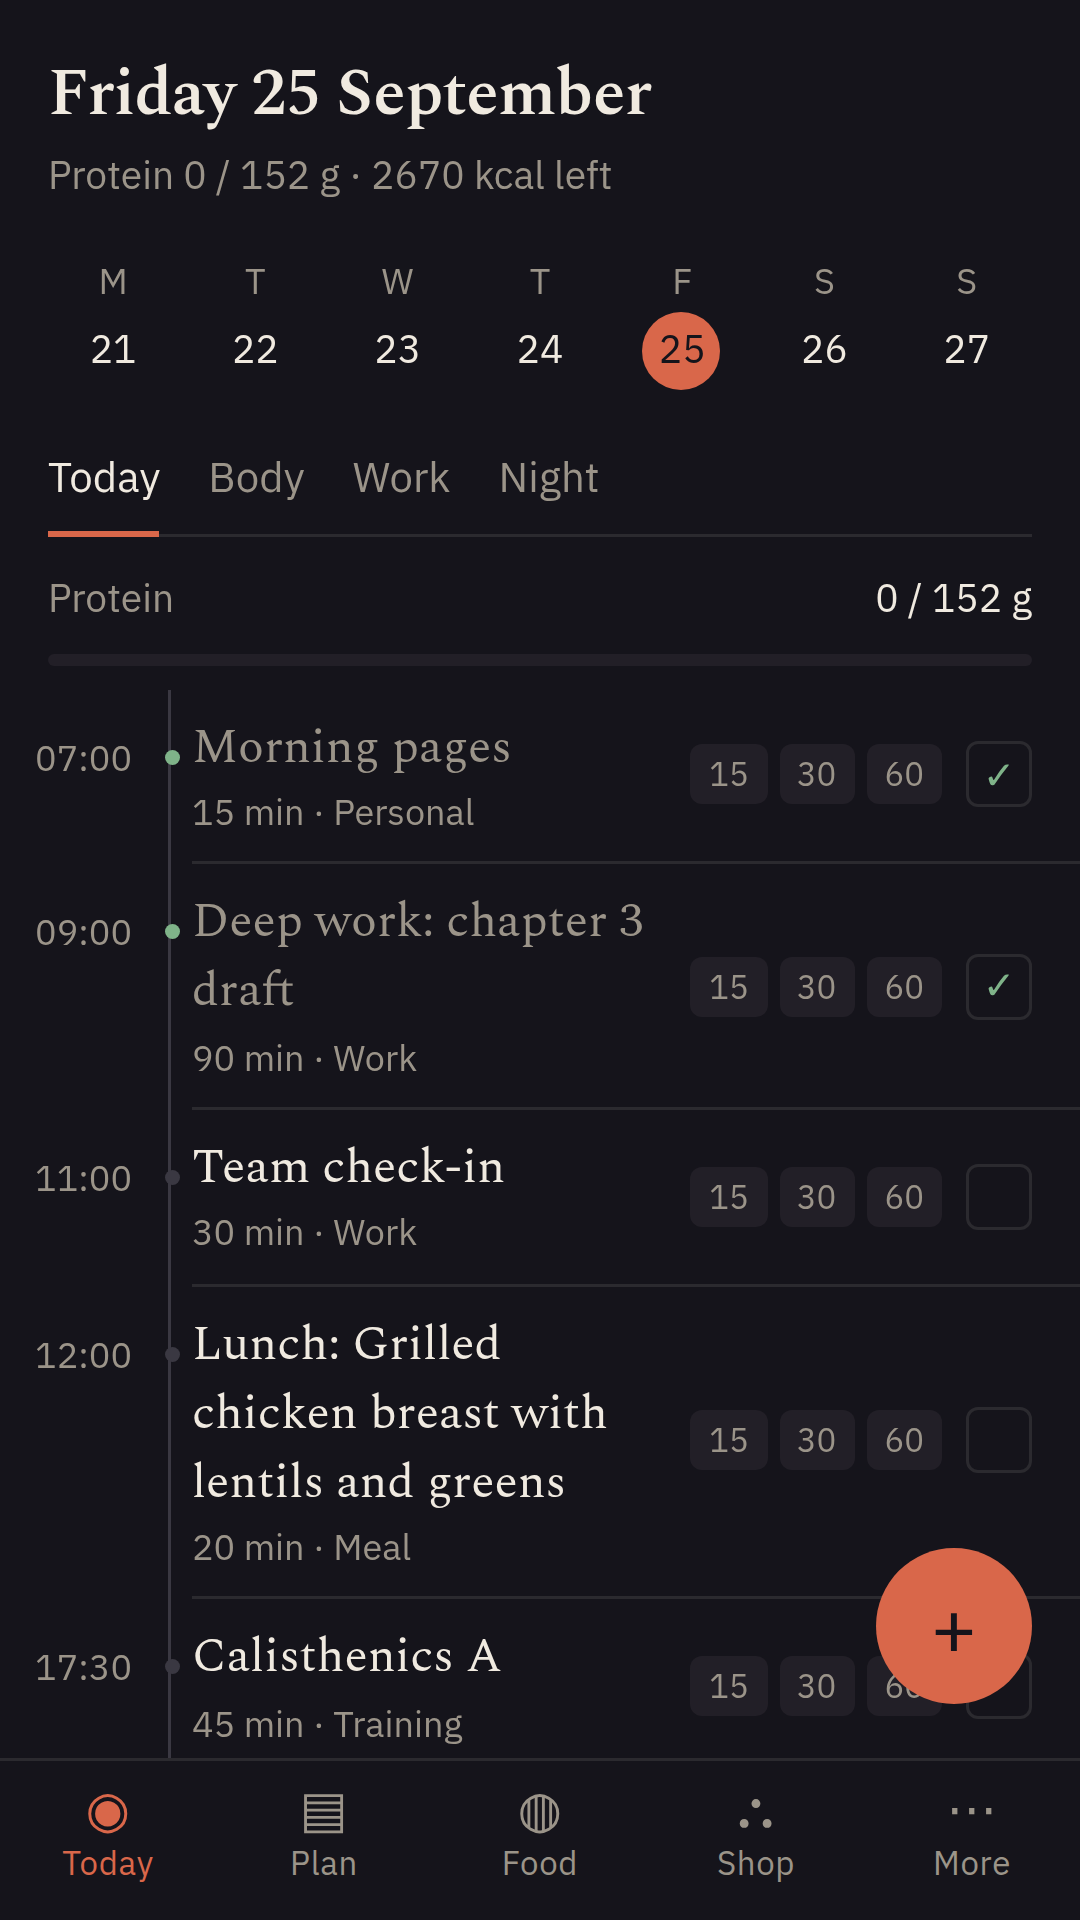
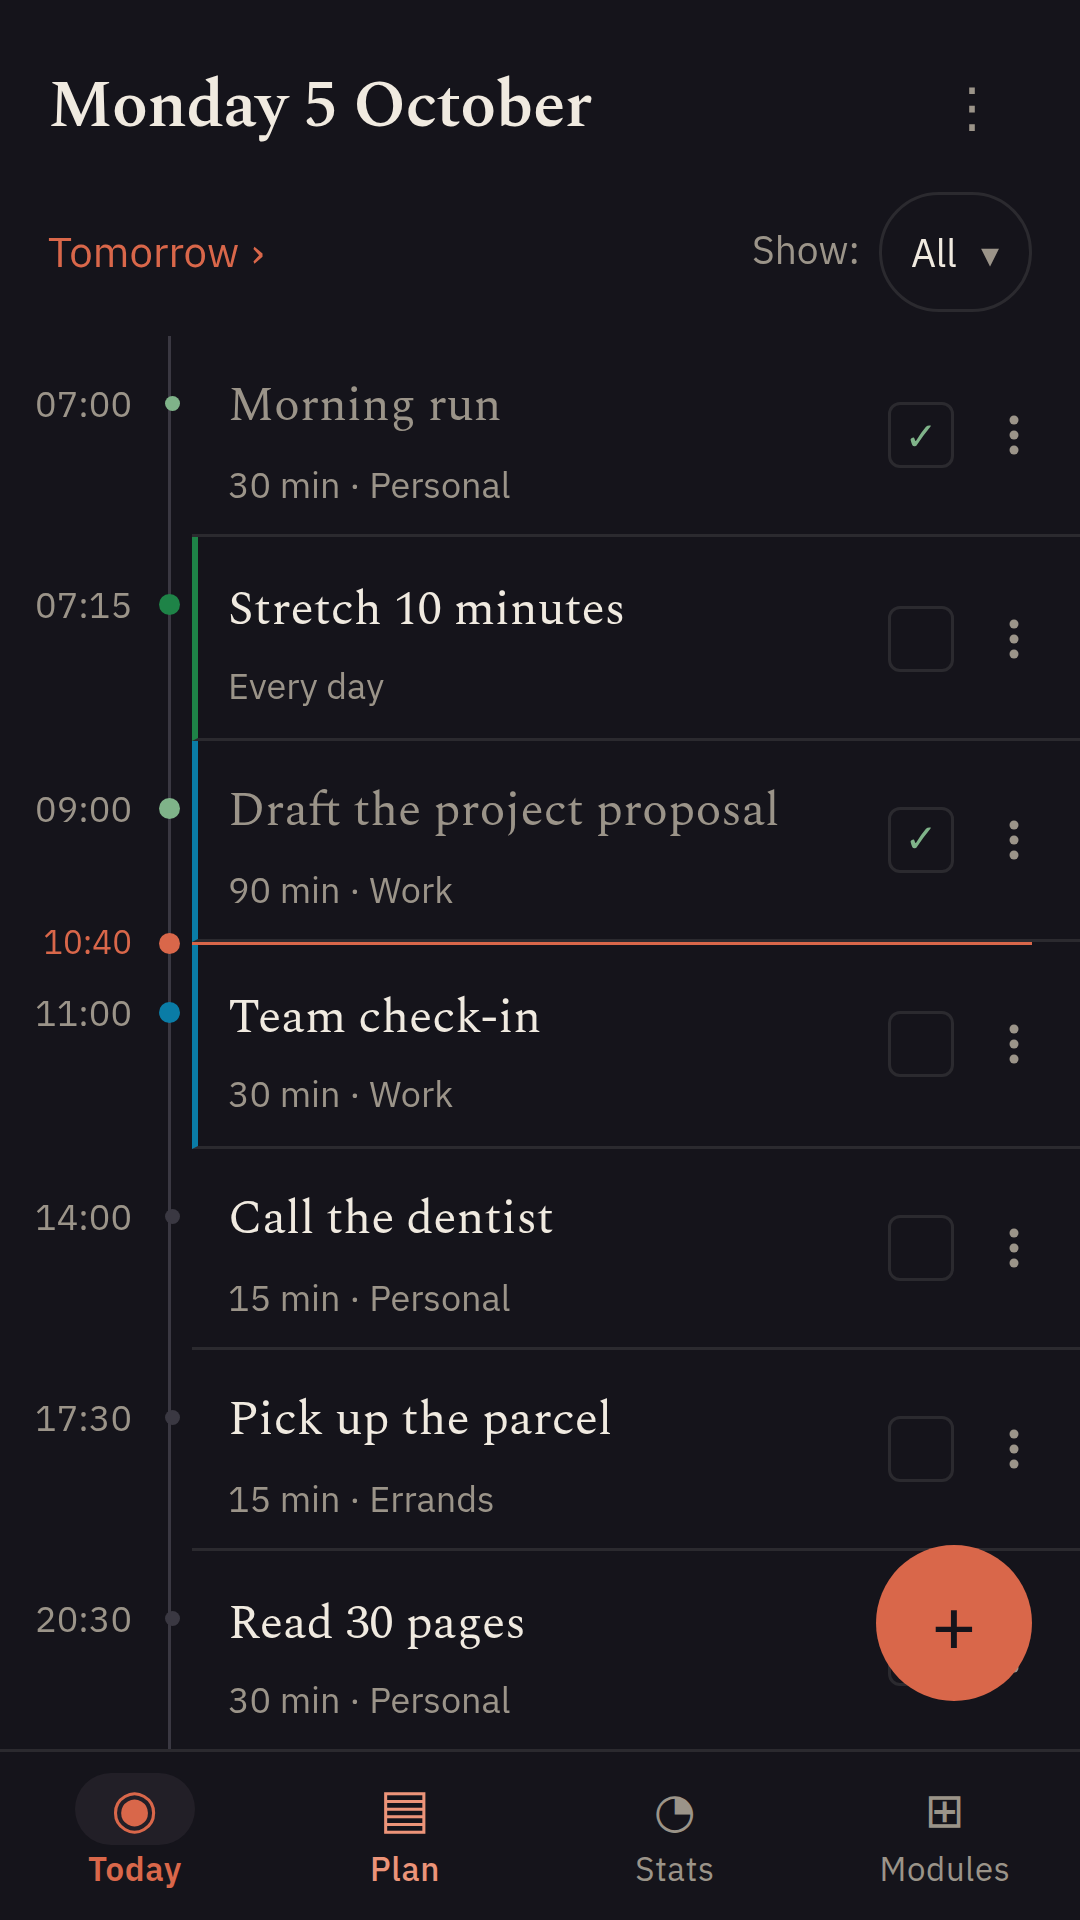
Store screenshots without the live project: scripts/store-shots.mjs (demo sign-in, invented demo week, 1080x1920) and the seven new shots
Claude-Session: https://claude.ai/code/session_01MWx7bumqWNeEwx6ExK1vMa

diff --git a/scripts/store-shots/seed.ts b/scripts/store-shots/seed.ts
@@ -1,0 +1,156 @@
+// An invented demo week for the store screenshots: one made-up person
+// ("Alex", demo@example.com), made-up tasks, meals, habits, a shopping list
+// with prices and three weeks of weigh-ins. Written straight into this
+// browser's local copy before the app starts; nothing goes anywhere.
+import { addDays, format } from 'date-fns'
+import { db, setMeta } from '../../src/lib/db'
+import { TIPS } from '../../src/lib/tips-rules'
+import { itemKey } from '../../src/lib/shopping-rules'
+import { TEMPLATES, fromTemplate } from '../../src/lib/stats-builder-rules'
+import { DEMO_USER } from './supabase-stub'
+
+const P = '00000000-0000-4000-8000-0000000000a1'
+const H = '00000000-0000-4000-8000-0000000000b1'
+let n = 0
+/** Stable made-up ids, so every run seeds the same rows. */
+const id = (kind: string) => `00000000-0000-4000-8000-${kind.padEnd(4, '0').slice(0, 4)}${String(++n).padStart(8, '0')}`
+
+export async function seedDemo(): Promise<void> {
+  await db.delete()
+  await db.open()
+  const now = new Date()
+  const iso = now.toISOString()
+  const day = (offset: number) => format(addDays(now, offset), 'yyyy-MM-dd')
+  const T = day(0)
+
+  try {
+    // Every tip seen, so none covers a screenshot.
+    localStorage.setItem('getit-tips', JSON.stringify({ seen: TIPS.map((t) => t.id), first: day(-40), moved: '99', runs: {} }))
+  } catch { /* fine */ }
+  await setMeta('owner', DEMO_USER.id)
+
+  await db.profile.put({
+    id: P, household_id: H, user_id: DEMO_USER.id, name: 'Alex', sex: 'female', birth_date: '1993-04-18', height_cm: 171,
+    activity_level: 1.55, goal: 'recomp', timezone: 'Europe/Amsterdam', day_start: '07:00', day_end: '23:00',
+    ai_persona_name: null, is_default: true, country: 'NL', city: null,
+    settings: {
+      onboarded: true,
+      // Habits and supplements on Today, not on Plan's week: the week shows the plan.
+      module_views: { habits: { plan: false }, supplements: { plan: false } },
+      // Two of the ready-made stats views, saved as the person's own.
+      stats_views: ['weight_trend', 'habit_kept'].map((k, i) => fromTemplate(TEMPLATES.find((t) => t.key === k)!, `demo${i}`))
+        // The demo has three weeks of weigh-ins: show a month, not 90 days.
+        .map((v) => (v.id === 'demo0' ? { ...v, name: 'Weight this month', range: { kind: 'last' as const, n: 30, unit: 'days' as const } } : v)),
+      meal_times: { breakfast: '07:45', lunch: '12:30', snack: '15:30', dinner: '18:45' },
+      shopping: { trip: { on: false, days: [6], time: '10:00', minutes: 45, locked: false }, window_days: 7,
+        shops: [{ name: 'Market', aisles: [] }, { name: 'Corner shop', aisles: [] }] },
+    },
+    created_at: iso, updated_at: iso, deleted_at: null,
+  } as never)
+
+  const modules = ['core', 'nutrition', 'shopping', 'habits', 'supplements', 'health', 'stats']
+  await db.module_instance.bulkPut(modules.map((k, i) => ({
+    id: id('mi'), profile_id: P, module_key: k, enabled: true, sort_order: i, settings: {}, updated_at: iso,
+  })))
+
+  await db.target.put({ id: id('tg'), profile_id: P, from_date: day(-30), kcal: 2050, protein_g: 130, fat_g: 70, carbs_g: 220, fiber_g: 30, reason: null, updated_at: iso, deleted_at: null })
+
+  // Three weeks of weigh-ins, gently down.
+  const weights = [72.9, 72.8, 72.9, 72.6, 72.7, 72.5, 72.4, 72.6, 72.3, 72.2, 72.4, 72.1, 72.0, 72.2, 71.9, 71.8, 71.9, 71.7, 71.6, 71.7, 71.5]
+  await db.body_log.bulkPut(weights.map((w, i) => ({
+    id: id('bl'), profile_id: P, log_date: day(i - weights.length + 1), weight_kg: w, waist_cm: i % 7 === 0 ? 79 - i * 0.05 : null, note: null, updated_at: iso, deleted_at: null,
+  })))
+
+  // Today and the week ahead.
+  const task = (offset: number, time: string | null, title: string, category: string | null, minutes: number | null, done = false) => ({
+    id: id('tk'), profile_id: P, title, category, module_key: null, horizon: 'day', goal_id: null, series_id: null,
+    duration_min: minutes, total_effort_min: null, daily_quota_min: null, fixed: false, locked: false,
+    planned_date: day(offset), planned_time: time, start_date: null, due_date: null, sort_order: 0,
+    status: done ? 'done' : 'todo', push_count: 0, extension_count: 0, needs_review: false, source: 'manual', source_ref: null,
+    notes: null, project_id: null, updated_at: iso, completed_at: done ? iso : null, deleted_at: null,
+  })
+  await db.task.bulkPut([
+    task(0, '07:00', 'Morning run', 'Personal', 30, true),
+    task(0, '09:00', 'Draft the project proposal', 'Work', 90, true),
+    task(0, '11:00', 'Team check-in', 'Work', 30),
+    task(0, '14:00', 'Call the dentist', 'Personal', 15),
+    task(0, '17:30', 'Pick up the parcel', 'Errands', 15),
+    task(0, '20:30', 'Read 30 pages', 'Personal', 30),
+    task(1, '08:30', 'Gym: upper body', 'Personal', 60),
+    task(1, '10:00', 'Review the budget', 'Work', 45),
+    task(1, '19:00', 'Dinner with Sam', 'Personal', 120),
+    task(2, '09:30', 'Write the weekly report', 'Work', 60),
+    task(2, '18:00', 'Bike repair', 'Errands', 30),
+    task(3, '07:00', 'Morning run', 'Personal', 30),
+    task(3, '13:00', 'Lunch with the team', 'Work', 60),
+    task(4, '11:00', 'Plan next sprint', 'Work', 90),
+    task(4, '16:00', 'Library: return books', 'Errands', 20),
+    task(5, '10:00', 'Farmers market', 'Errands', 60),
+    task(5, '15:00', 'Call Mum', 'Personal', 30),
+    task(6, '09:00', 'Long walk in the park', 'Personal', 90),
+    task(6, '17:00', 'Meal prep for the week', 'Personal', 90),
+  ] as never)
+
+  // Meals: planned as plain numbers for today and tomorrow, breakfast eaten.
+  const slot = (offset: number, s: string, label: string, kcal: number, protein: number, carbs: number, fat: number, eaten = false) => ({
+    id: id('ms'), profile_id: P, slot_date: day(offset), slot: s, recipe_id: null, portion_multiplier: 1,
+    status: eaten ? 'eaten' : 'planned', slot_time: null, food_id: null, sort_order: 0, label,
+    kcal, protein_g: protein, carbs_g: carbs, fat_g: fat, fiber_g: Math.round(carbs / 9), grams: null, updated_at: iso, deleted_at: null,
+  })
+  const meals = [
+    slot(0, 'breakfast', 'Overnight oats with berries', 420, 22, 58, 11, true),
+    slot(0, 'lunch', 'Chicken and avocado wrap', 560, 38, 52, 21),
+    slot(0, 'snack', 'Greek yoghurt with honey', 190, 15, 20, 5),
+    slot(0, 'dinner', 'Salmon, rice and greens', 640, 42, 62, 22),
+    slot(1, 'breakfast', 'Scrambled eggs on toast', 450, 27, 38, 20),
+    slot(1, 'lunch', 'Lentil soup and bread', 520, 26, 74, 12),
+    slot(1, 'dinner', 'Chickpea curry', 610, 24, 80, 18),
+  ]
+  await db.meal_plan_slot.bulkPut(meals as never)
+  await db.food_log.put({
+    id: id('fl'), profile_id: P, log_date: T, log_time: '07:50', food_id: null, recipe_id: null, grams: null, portions: 1, planned: true,
+    label: 'Overnight oats with berries', kcal: 420, protein_g: 22, carbs_g: 58, fat_g: 11, fiber_g: 6, updated_at: iso, deleted_at: null,
+  } as never)
+
+  // Habits with two weeks behind them.
+  const habits = [
+    { name: 'Stretch 10 minutes', time: '07:15', part: 'morning' },
+    { name: 'Walk 8,000 steps', time: null, part: 'afternoon' },
+    { name: 'Two litres of water', time: null, part: null },
+    { name: 'No phone after 22:00', time: '22:00', part: 'evening' },
+  ].map((h, i) => ({
+    id: id('hb'), profile_id: P, name: h.name, schedule: 'daily', rule: null, time_of_day: h.time, day_part: h.part,
+    sort_order: i, active: true, start_date: day(-30), updated_at: iso, deleted_at: null,
+  }))
+  await db.habit.bulkPut(habits as never)
+  const logs = []
+  for (const [i, h] of habits.entries()) {
+    for (let d = -14; d <= 0; d++) {
+      if (d === 0 && i > 0) continue
+      if ((d * 7 + i * 3) % 5 === 0) continue
+      logs.push({ id: id('hl'), habit_id: h.id, log_date: day(d), done: true, updated_at: iso })
+    }
+  }
+  await db.habit_log.bulkPut(logs as never)
+
+  await db.supplement.bulkPut([
+    { id: id('sp'), profile_id: P, name: 'Vitamin D', dose_text: '25 µg', time_slot: 'morning', active: true, sort_order: 0, updated_at: iso, deleted_at: null },
+    { id: id('sp'), profile_id: P, name: 'Magnesium', dose_text: '300 mg', time_slot: 'evening', active: true, sort_order: 1, updated_at: iso, deleted_at: null },
+  ] as never)
+
+  // The shopping list, with the prices the household noted.
+  const items: [string, number | null, string, number | null][] = [
+    ['Rolled oats', 1, 'Market', 1.89], ['Blueberries', 2, 'Market', 2.49], ['Greek yoghurt', 1, 'Market', 2.19],
+    ['Chicken breast', 1, 'Market', 6.99], ['Avocados', 3, 'Corner shop', 0.99], ['Wholemeal wraps', 1, 'Market', 1.59],
+    ['Salmon fillets', 2, 'Market', 4.75], ['Basmati rice', 1, 'Market', 2.29], ['Spinach', 1, 'Corner shop', 1.35],
+    ['Red lentils', 1, 'Market', 1.65], ['Coconut milk', 2, 'Market', 1.19], ['Eggs, 10', 1, 'Corner shop', null],
+  ]
+  await db.shopping_entry.bulkPut(items.map(([name, qty, shop], i) => ({
+    id: id('se'), household_id: H, plan_key: null, food_id: null, name, qty, grams: null, note: null, aisle: null, shop,
+    checked: false, checked_at: null, sort_order: i, added_by: DEMO_USER.id, list: null, created_at: iso, updated_at: iso, deleted_at: null,
+  })) as never)
+  await db.shop_price.bulkPut(items.filter(([, , , price]) => price !== null).map(([name, , shop, price]) => ({
+    id: id('pr'), household_id: H, shop, item_key: itemKey({ name }), food_id: null, name, price: price!, amount_g: null,
+    noted_on: day(-3), added_by: DEMO_USER.id, created_at: iso, updated_at: iso, deleted_at: null,
+  })) as never)
+}

diff --git a/scripts/store-shots/supabase-stub.ts b/scripts/store-shots/supabase-stub.ts
@@ -1,0 +1,52 @@
+// Stands in for src/lib/supabase.ts while the store screenshots are taken
+// (scripts/store-shots.mjs): signed in as an invented demo person, and every
+// request answered at once with nothing, so the app runs on the demo week
+// seeded into this browser's local copy and never touches the network.
+export const DEMO_USER = {
+  id: '00000000-0000-4000-8000-0000000000d1',
+  email: 'demo@example.com',
+  aud: 'authenticated',
+  role: 'authenticated',
+  app_metadata: { provider: 'email' },
+  // Agreed to the current policy, so no notice covers the screen.
+  user_metadata: { privacy_version: '9999-12-31', policy_read: '9999-12-31', health_consent_at: '2026-01-01T00:00:00Z' },
+  created_at: '2026-01-01T00:00:00Z',
+}
+const session = {
+  access_token: 'demo', refresh_token: 'demo', token_type: 'bearer', expires_in: 3600,
+  expires_at: Math.floor(Date.now() / 1000) + 3600, user: DEMO_USER,
+}
+
+/** A query that can be chained any way and answers with no rows. */
+function query(answer: { data: unknown; error: unknown }): unknown {
+  const target = () => undefined
+  const proxy: unknown = new Proxy(target, {
+    get(_, prop) {
+      if (prop === 'then') return (ok: (v: unknown) => unknown) => Promise.resolve({ ...answer, count: 0, status: 200 }).then(ok)
+      if (prop === 'single' || prop === 'maybeSingle') return () => query({ data: null, error: answer.error })
+      return () => proxy
+    },
+    apply() { return proxy },
+  })
+  return proxy
+}
+
+const auth = new Proxy({}, {
+  get(_, prop) {
+    if (prop === 'onAuthStateChange') return () => ({ data: { subscription: { unsubscribe() { /* nothing to stop */ } } } })
+    return async () => ({ data: { session, user: DEMO_USER }, error: null })
+  },
+})
+
+// eslint-disable-next-line @typescript-eslint/no-explicit-any
+export const supabase: any = {
+  auth,
+  from: () => query({ data: [], error: null }),
+  rpc: () => query({ data: null, error: { message: 'Demo: no server' } }),
+  functions: { invoke: async () => ({ data: null, error: { message: 'Demo: no server' } }) },
+  storage: { from: () => query({ data: null, error: { message: 'Demo: no server' } }) },
+  channel: () => query({ data: null, error: null }),
+  removeChannel: async () => undefined,
+}
+
+export const hasCredentials = true

diff --git a/scripts/store-shots/index.html b/scripts/store-shots/index.html
@@ -1,0 +1,12 @@
+<!doctype html>
+<html lang="en-GB">
+  <head>
+    <meta charset="UTF-8" />
+    <meta name="viewport" content="width=device-width, initial-scale=1, viewport-fit=cover" />
+    <title>GetIt</title>
+  </head>
+  <body>
+    <div id="root"></div>
+    <script type="module" src="./entry.ts"></script>
+  </body>
+</html>

diff --git a/scripts/store-shots/entry.ts b/scripts/store-shots/entry.ts
@@ -1,0 +1,5 @@
+// The app as it ships, started after the demo week is in the local copy.
+import { seedDemo } from './seed'
+
+await seedDemo()
+await import('../../src/main.tsx')
